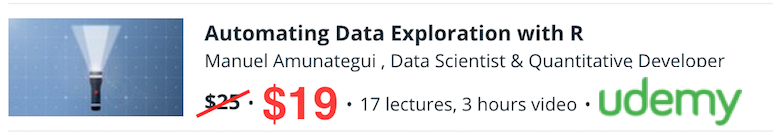
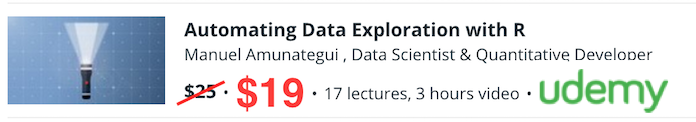
update

diff --git a/_includes/navigation.html b/_includes/navigation.html
@@ -72,7 +72,7 @@
  	<BR><a href='https://www.udemy.com/practical-data-science-reducing-high-dimensional-data-in-r/?couponCode=1111' target='_blank'><img src="../img/reducing-dimensions-r-19.png" alt="free-top-row" style='padding:1px; border:1px solid #021a40;'></a></p>
 {% elsif page.path contains '_posts' %}
 <BR>
-	<p style="text-align:center;color:red">NEW! Lectures on Automating Data Exploration with R' available at Udemy.com:
+	<p style="text-align:center;color:red">NEW! Course on Automating Data Exploration with R' available at Udemy.com:
  	<BR><a href='https://www.udemy.com/automating-data-exploration-with-r/?couponCode=2003' target='_blank'><img src="../img/automating-r-19.png" alt="free-top-row" style='padding:1px; border:1px solid #021a40;'></a></p>
 {% elsif page.path contains 'park' %}
 <p align="center">
@@ -96,8 +96,8 @@
 <!-- Docs page layout -->
 <BR>
 
-<p style="text-align:center;color:red">My 11 lectures on 'Reducing High Dimensional Data in R' available at Udemy.com:
- 	<BR><a href='https://www.udemy.com/practical-data-science-reducing-high-dimensional-data-in-r/?couponCode=1111' target='_blank'><img src="../img/reducing-dimensions-r-19.png" alt="free-top-row" style='padding:1px; border:1px solid #021a40;'></a></p>
+<p style="text-align:center;color:red">NEW! Course on Automating Data Exploration with R' available at Udemy.com:
+ 	<BR><a href='https://www.udemy.com/automating-data-exploration-with-r/?couponCode=2003' target='_blank'><img src="../img/automating-r-19.png" alt="free-top-row" style='padding:1px; border:1px solid #021a40;'></a></p>
 {% endif %} 	
 <p align="center"><a href="http://amunategui.github.io/" rel="tooltip" title="View all posts&quot;"><span class="label label-info">all</span></a> <a href="/tags/exploring" rel="tooltip" title="View posts tagged with &quot;exploring&quot;"><span class="label label-info">exploring</span></a> <a href="/tags/modeling" rel="tooltip" title="View posts tagged with &quot;modeling&quot;"><span class="label label-info">modeling</span></a> <a href="/tags/visualizing" rel="tooltip" title="View posts tagged with &quot;visualizing&quot;"><span class="label label-info">visualizing</span></a> <a href="/tags/rstudioserver" rel="tooltip" title="View posts tagged with &quot;rstudioserver&quot;"><span class="label label-info">rstudioserver</span></a> <a href="/tags/nlp" rel="tooltip" title="View posts tagged with &quot;nlp&quot;"><span class="label label-info">nlp</span></a> <a href="/tags/spark" rel="tooltip" title="View posts tagged with &quot;spark&quot;"><span class="label label-info">spark</span></a> <a href="/tags/aws" rel="tooltip" title="View posts tagged with &quot;aws&quot;"><span class="label label-info">aws</span></a>  <a href="/tags/h2o" rel="tooltip" title="View posts tagged with &quot;h2o&quot;"><span class="label label-info">h2o</span></a></p></p>
 

diff --git a/_posts/2016-01-12-udemy.md b/_posts/2016-01-12-udemy.md
@@ -13,7 +13,7 @@ image: udemy/my_udemy.png
 
 <h3><a href='https://www.udemy.com/practical-data-science-reducing-high-dimensional-data-in-r/?couponCode=1111' target='_blank'>Reducing High Dimensional Data in R</a></h3>
 <p style="text-align:center">
-<p "color:black">
+<p style="color:black">
 <a href='https://www.udemy.com/practical-data-science-reducing-high-dimensional-data-in-r/?couponCode=1111' target='_blank'>
 <img src="{{site.baseurl}}/img/reducing-dimensions-r-19.png" alt="Reducing High Dimensional Data in R" style='padding:2px; border:1px solid #021a40;' align="bottom" hspace="20">11 lectures on 'Reducing High Dimensional Data in R' at Udemy.com - click here for $19 coupon!</a>
 </p>
@@ -35,7 +35,7 @@ You will learn:
 <BR><BR><BR>
 <h3><a href='https://www.udemy.com/supercharge-r-with-sparkr/?couponCode=1111' target='_blank'>Supercharge R with SparkR - Apply your R chops to Big Data!</a></h3>
 <p style="text-align:center">
-<p "color:black">
+<p style="color:black">
 <a href='https://www.udemy.com/supercharge-r-with-sparkr/?couponCode=1111' target='_blank'>
 <img src="{{site.baseurl}}/img/spark-r-25.png" alt="SparkR, modeling, S3 and HDFS" style='padding:2px; border:1px solid #021a40;' align="bottom" hspace="20">12 lectures on 'SparkR, modeling, S3 and HDFS' at Udemy.com - click here for $25 coupon!</a>
 </p><BR>
@@ -56,7 +56,7 @@ All examples performed on real clusters - no training wheels, single local clust
 <BR><BR><BR>
 <h3><a href='https://www.udemy.com/practical-data-science-analyzing-stock-market-data-with-r/?couponCode=1111' target='_blank'>Analyzing Stock Market Data with R</a></h3>
 <p style="text-align:center">
-<p "color:black">
+<p style="color:black">
 <a href='https://www.udemy.com/practical-data-science-analyzing-stock-market-data-with-r/?couponCode=1111' target='_blank'>
 <img src="{{site.baseurl}}/img/quantmod-r-25.png" alt="Quantmod and R" style='padding:2px; border:1px solid #021a40;' align="bottom" hspace="20">18 lectures on 'Quantmod and R' available at Udemy.com - click here for $25 coupon!</a>
 </p>
